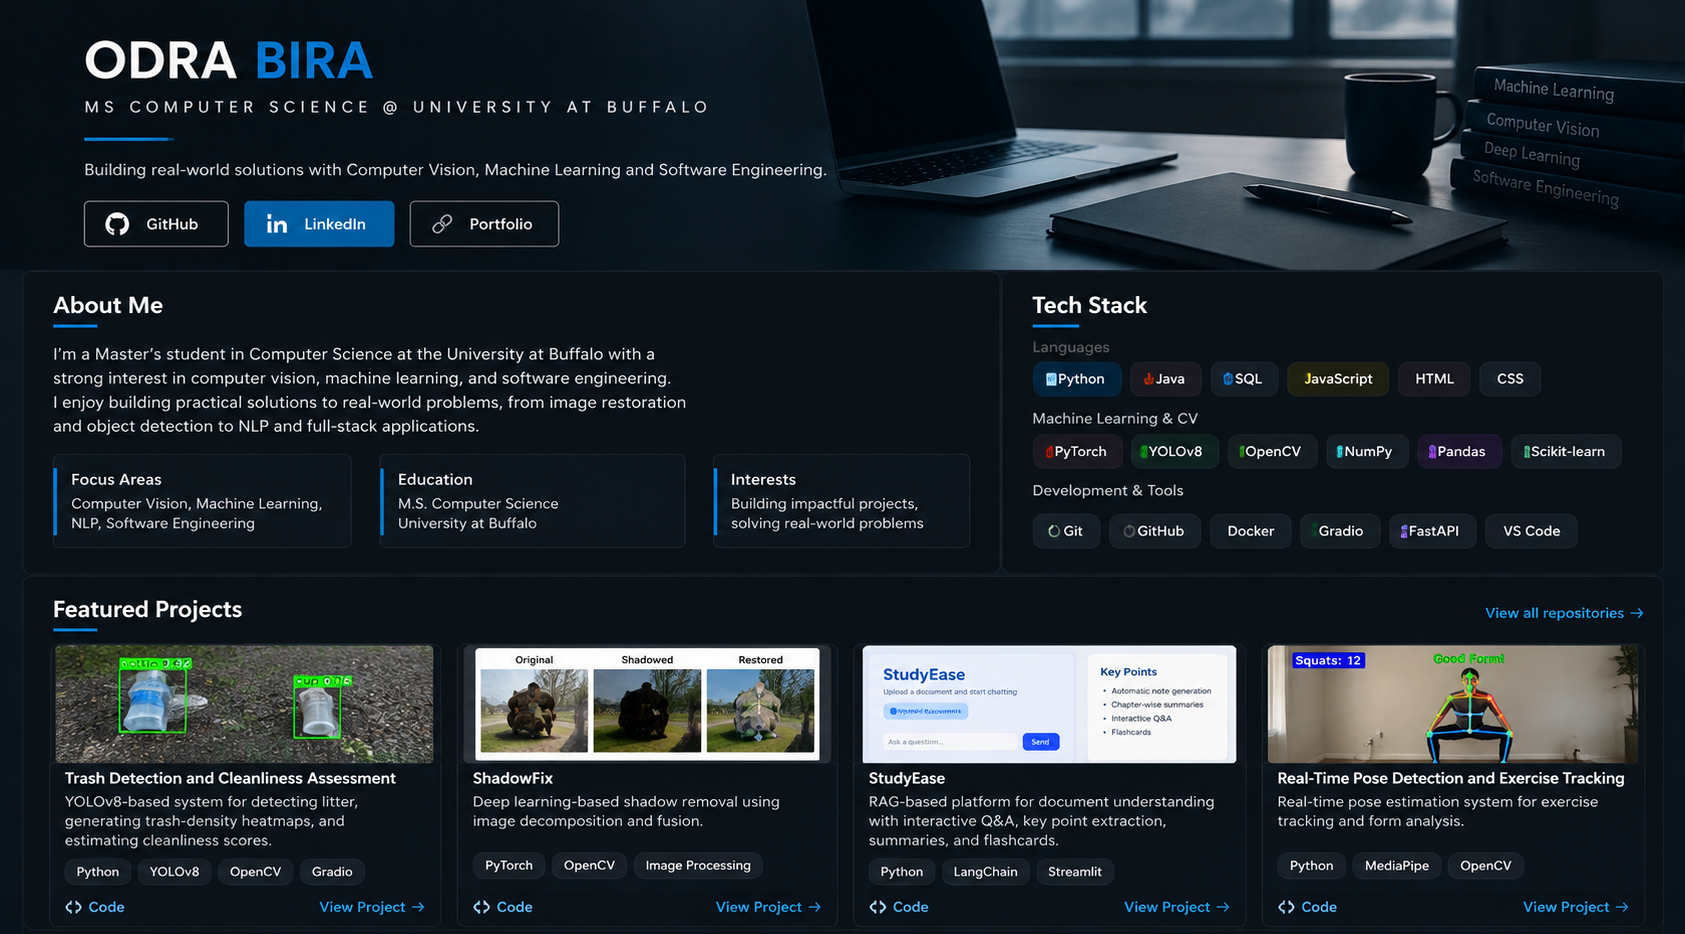
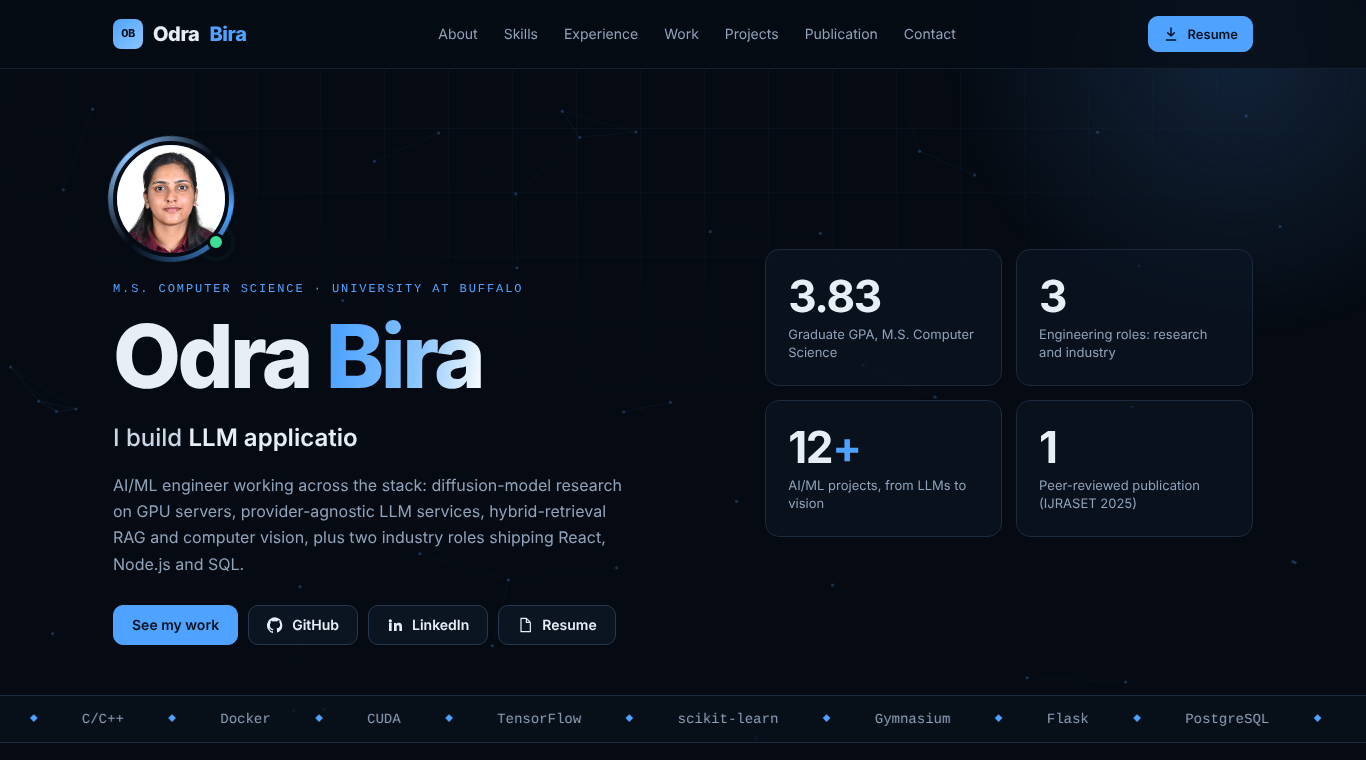
Update profile with research, featured projects, skills and new portfolio

diff --git a/README.md b/README.md
@@ -1,27 +1,58 @@
-[![Odra Bira — portfolio showcase with About Me, technology stack and featured projects](assets/portfolio-showcase.png)](https://odra-bira.github.io/)
+[![Odra Bira — AI/ML engineer portfolio](assets/portfolio-showcase.png)](https://odra-bira.github.io/)
 
 <p align="center">
-<a href="https://github.com/odra-bira?tab=repositories">GitHub repositories</a> ·
-<a href="https://www.linkedin.com/in/bira-odra/">LinkedIn</a> ·
-<a href="https://odra-bira.github.io/">Portfolio</a>
+  <a href="https://odra-bira.github.io/"><img src="https://img.shields.io/badge/Portfolio-odra--bira.github.io-4FA3FF?style=for-the-badge&logo=googlechrome&logoColor=white" alt="Portfolio"/></a>
+  <a href="https://www.linkedin.com/in/bira-odra/"><img src="https://img.shields.io/badge/LinkedIn-bira--odra-0A66C2?style=for-the-badge&logo=linkedin&logoColor=white" alt="LinkedIn"/></a>
+  <a href="https://odra-bira.github.io/Odra_Bira_Resume.pdf"><img src="https://img.shields.io/badge/Resume-PDF-1B2A3D?style=for-the-badge&logo=adobeacrobatreader&logoColor=white" alt="Resume"/></a>
+  <a href="mailto:odrabira@gmail.com"><img src="https://img.shields.io/badge/Email-odrabira%40gmail.com-D14836?style=for-the-badge&logo=gmail&logoColor=white" alt="Email"/></a>
 </p>
 
-<p align="center">
-<a href="https://github.com/odra-bira/trash_detection">Trash Detection — Code</a> ·
-<a href="https://github.com/odra-bira/ShadowFix">ShadowFix — Code</a> ·
-<a href="https://github.com/odra-bira/Studyplanner">StudyEase — Code</a> ·
-<a href="https://github.com/odra-bira/Real-Time-Pose-Detection-and-Exercise-Tracking-main">Pose Detection — Code</a>
+### Hi, I'm Odra 👋
+
+AI/ML engineer and **M.S. Computer Science** student at the **University at Buffalo** (AI/ML, 3.83 GPA). I'm a Graduate Student Researcher working on **safe planning with diffusion models**, and I build LLM applications, RAG pipelines and computer vision systems end to end. Before grad school I shipped React, Node.js and SQL features in two industry roles.
+
+🎯 **Open to** AI/ML Engineer, LLM Application and Research Engineer roles from December 2026.
+
+### 🔬 Research
+
+**Graduate Student Researcher, University at Buffalo** (Oct 2025 – Present)
+- Benchmark safety-constrained diffusion planners (SafeDiffuser, ICLR 2025) as baselines for lab research
+- Trained a temporal U-Net diffusion trajectory planner (1M iterations) with value-guided sampling on D4RL Walker2d, on an RTX 5090
+- Closed-form control-barrier-function enforcement met the same safety constraint as QP-based enforcement at **3.2× lower planning latency** (0.64 s → 0.20 s)
+
+### 🚀 Featured projects
+
+| Project | What it does | Highlights | Stack |
+|---|---|---|---|
+| **[StudyEase](https://github.com/odra-bira/Studyplanner)** | LLM-powered study planner | Provider-agnostic layer over Claude, Gemini and Ollama; validate-and-repair engine for LLM plans; 5 REST endpoints; **35 pytest tests** | FastAPI · React · Pydantic |
+| **[ShadowFix](https://github.com/odra-bira/ShadowFix)** | Shadow removal for real photos | Mask-guided U-Net: **30.19 dB PSNR / 0.951 SSIM** on 540 test images, +9.6 dB over the input; Gradio app | PyTorch · OpenCV · Gradio |
+| **SkinGPT** | RAG knowledge assistant | Hybrid BM25 + dense retrieval, cross-encoder reranking, cited answers; **1,000-question** eval benchmark, ~75% retrieval precision | Embeddings · Vector search · LLM APIs |
+| **[Trash Detection](https://github.com/odra-bira/trash_detection)** | Litter detection and cleanliness scoring | Fine-tuned YOLOv8n (0.78 precision); 0–100 cleanliness score and density heatmaps; CLI + Gradio | YOLOv8 · OpenCV · pytest |
+
+**More:** Receipt-to-JSON LLM fine-tuning (Qwen2.5-3B, QLoRA) · Vision Transformer + GPT from scratch · RL agents with SARSA and n-step Double Q-learning · [Real-Time Pose Tracking](https://github.com/odra-bira/Real-Time-Pose-Detection-and-Exercise-Tracking-main) · [Comment Toxicity Classification](https://github.com/odra-bira/comment-toxicity-clean) · [Fruit Quality Classification](https://github.com/odra-bira/agriculture-project) · Unsupervised learning in R · Elastic Net from scratch
+
+📄 **Publication:** [Automated Assessment of Fruit Quality Using Transfer Learning and MobileNetV2](https://doi.org/10.22214/ijraset.2025.68187), IJRASET 13(4), 2025
+
+### 🧰 Skills
+
+**Languages**
+<p>
+<img src="https://img.shields.io/badge/Python-3776AB?logo=python&logoColor=white"/> <img src="https://img.shields.io/badge/Java-ED8B00?logo=openjdk&logoColor=white"/> <img src="https://img.shields.io/badge/SQL-336791?logo=postgresql&logoColor=white"/> <img src="https://img.shields.io/badge/C%2FC%2B%2B-00599C?logo=cplusplus&logoColor=white"/> <img src="https://img.shields.io/badge/R-276DC3?logo=r&logoColor=white"/> <img src="https://img.shields.io/badge/JavaScript-F7DF1E?logo=javascript&logoColor=black"/> <img src="https://img.shields.io/badge/Bash-4EAA25?logo=gnubash&logoColor=white"/>
 </p>
 
-<details>
-<summary>Project details and additional work</summary>
+**Generative AI & LLMs**
+<p>
+<img src="https://img.shields.io/badge/Claude%20API-D97757?logo=anthropic&logoColor=white"/> <img src="https://img.shields.io/badge/Gemini%20API-4285F4?logo=googlegemini&logoColor=white"/> <img src="https://img.shields.io/badge/Ollama-000000?logo=ollama&logoColor=white"/> <img src="https://img.shields.io/badge/vLLM-30A2FF"/> <img src="https://img.shields.io/badge/Hugging%20Face-FFD21E?logo=huggingface&logoColor=black"/> <img src="https://img.shields.io/badge/RAG-1B2A3D"/> <img src="https://img.shields.io/badge/BM25%20%2B%20Vector%20Search-1B2A3D"/> <img src="https://img.shields.io/badge/Reranking-1B2A3D"/> <img src="https://img.shields.io/badge/LoRA%20%2F%20QLoRA-1B2A3D"/> <img src="https://img.shields.io/badge/Diffusion%20Models-1B2A3D"/>
+</p>
 
-The showcase above preserves the supplied design. Current StudyEase implementation: adaptive study planning with React, FastAPI, LLM provider integrations, schedule validation, assignment chat, stress check-ins and study breaks.
+**Machine Learning & Computer Vision**
+<p>
+<img src="https://img.shields.io/badge/PyTorch-EE4C2C?logo=pytorch&logoColor=white"/> <img src="https://img.shields.io/badge/TensorFlow-FF6F00?logo=tensorflow&logoColor=white"/> <img src="https://img.shields.io/badge/Keras-D00000?logo=keras&logoColor=white"/> <img src="https://img.shields.io/badge/scikit--learn-F7931E?logo=scikitlearn&logoColor=white"/> <img src="https://img.shields.io/badge/OpenCV-5C3EE8?logo=opencv&logoColor=white"/> <img src="https://img.shields.io/badge/YOLOv8-111F68"/> <img src="https://img.shields.io/badge/MediaPipe-0097A7?logo=mediapipe&logoColor=white"/> <img src="https://img.shields.io/badge/Optuna-2A6EBB"/> <img src="https://img.shields.io/badge/Gymnasium-0081A5"/>
+</p>
 
-The pose tracking repository uses elbow angles to count bicep curls.
+**Backend, Data & Tools**
+<p>
+<img src="https://img.shields.io/badge/FastAPI-009688?logo=fastapi&logoColor=white"/> <img src="https://img.shields.io/badge/Flask-000000?logo=flask&logoColor=white"/> <img src="https://img.shields.io/badge/React-20232A?logo=react&logoColor=61DAFB"/> <img src="https://img.shields.io/badge/Node.js-339933?logo=nodedotjs&logoColor=white"/> <img src="https://img.shields.io/badge/PostgreSQL-4169E1?logo=postgresql&logoColor=white"/> <img src="https://img.shields.io/badge/MongoDB-47A248?logo=mongodb&logoColor=white"/> <img src="https://img.shields.io/badge/Spark-E25A1C?logo=apachespark&logoColor=white"/> <img src="https://img.shields.io/badge/pandas-150458?logo=pandas&logoColor=white"/> <img src="https://img.shields.io/badge/NumPy-013243?logo=numpy&logoColor=white"/> <img src="https://img.shields.io/badge/Docker-2496ED?logo=docker&logoColor=white"/> <img src="https://img.shields.io/badge/Git-F05032?logo=git&logoColor=white"/> <img src="https://img.shields.io/badge/Linux-FCC624?logo=linux&logoColor=black"/> <img src="https://img.shields.io/badge/CUDA-76B900?logo=nvidia&logoColor=white"/> <img src="https://img.shields.io/badge/pytest-0A9EDC?logo=pytest&logoColor=white"/> <img src="https://img.shields.io/badge/Weights%20%26%20Biases-FFBE00?logo=weightsandbiases&logoColor=black"/> <img src="https://img.shields.io/badge/Gradio-F97316?logo=gradio&logoColor=white"/>
+</p>
 
-Additional projects: [Comment Toxicity Classification](https://github.com/odra-bira/comment-toxicity-clean) · [Fruit Quality Classification](https://github.com/odra-bira/agriculture-project) · [Publication](https://doi.org/10.22214/ijraset.2025.68187).
-
-</details>
-
-<!-- Profile author: Odra Bira -->
+<p align="center"><a href="https://odra-bira.github.io/">See everything on my portfolio →</a></p>
